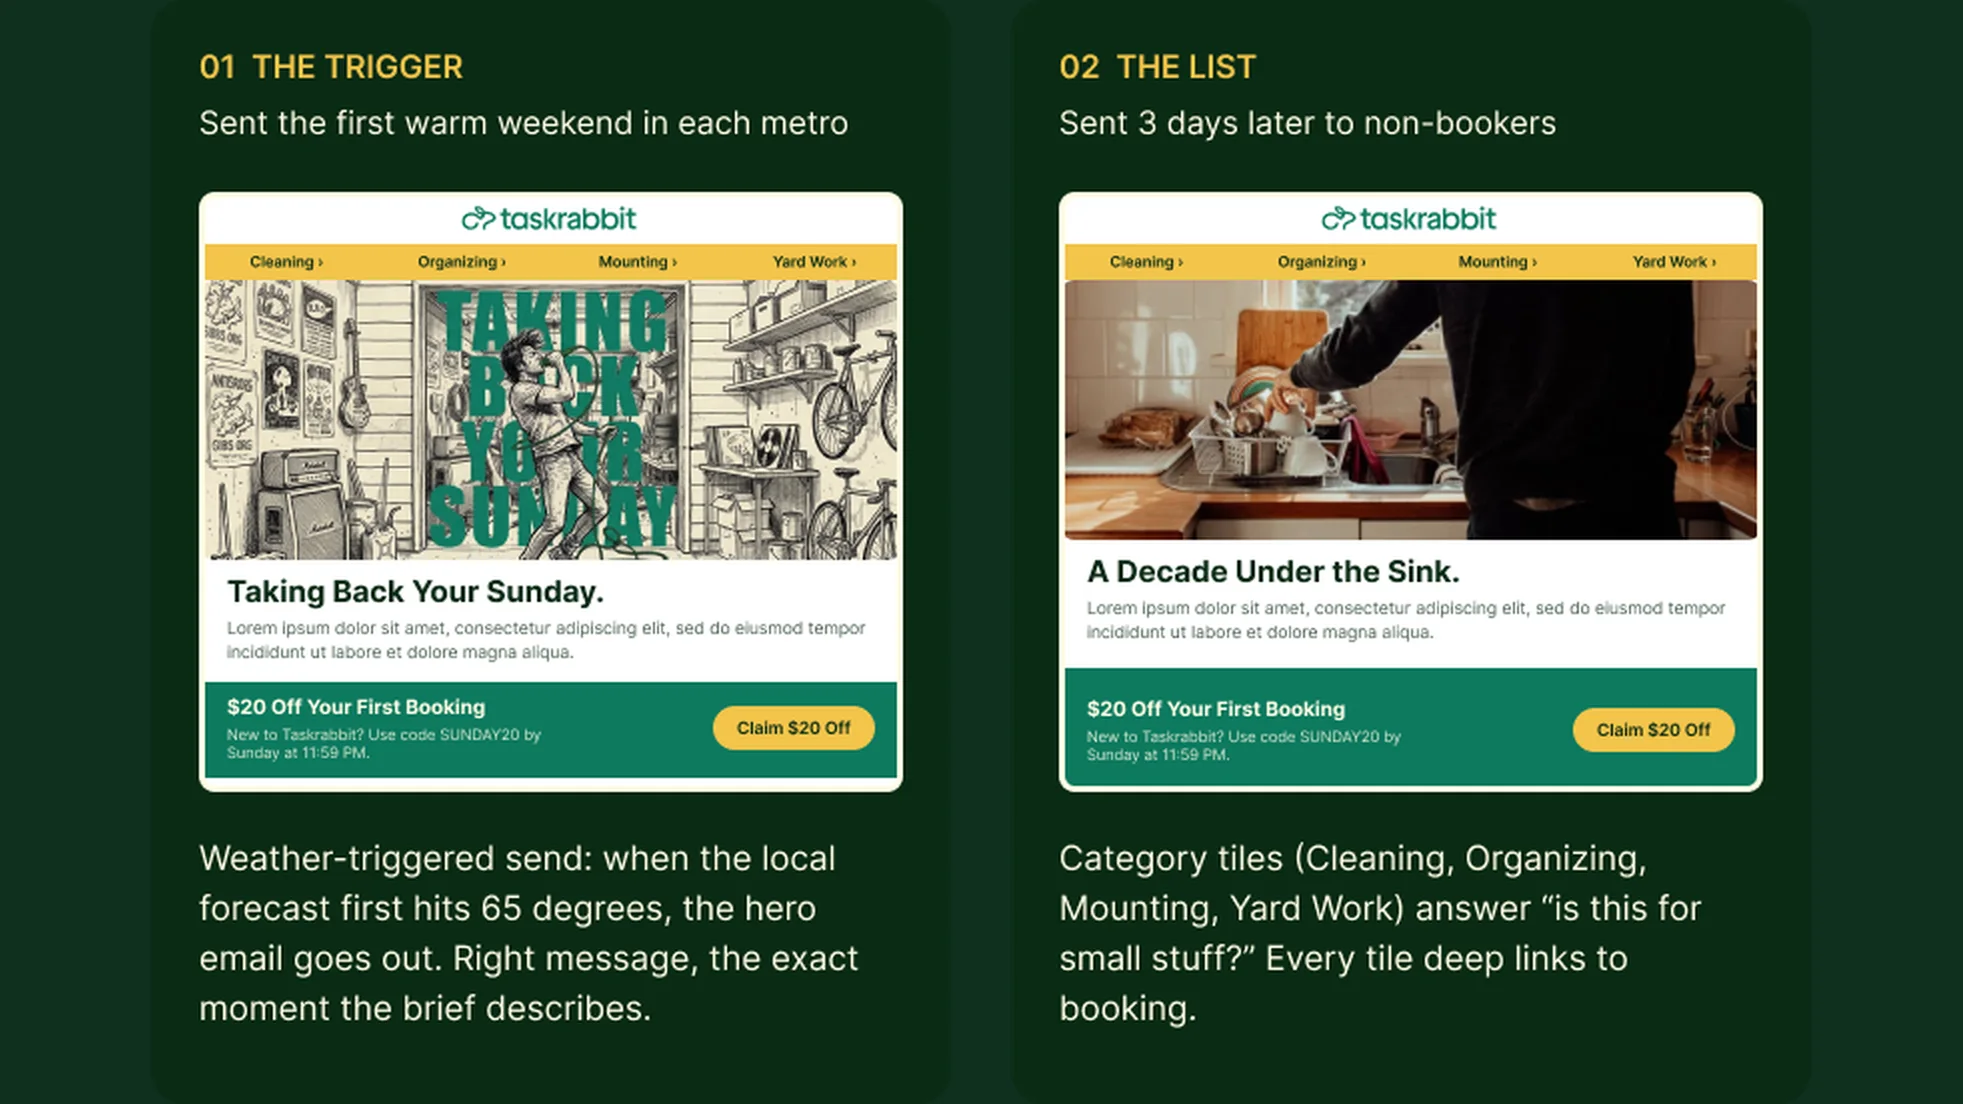
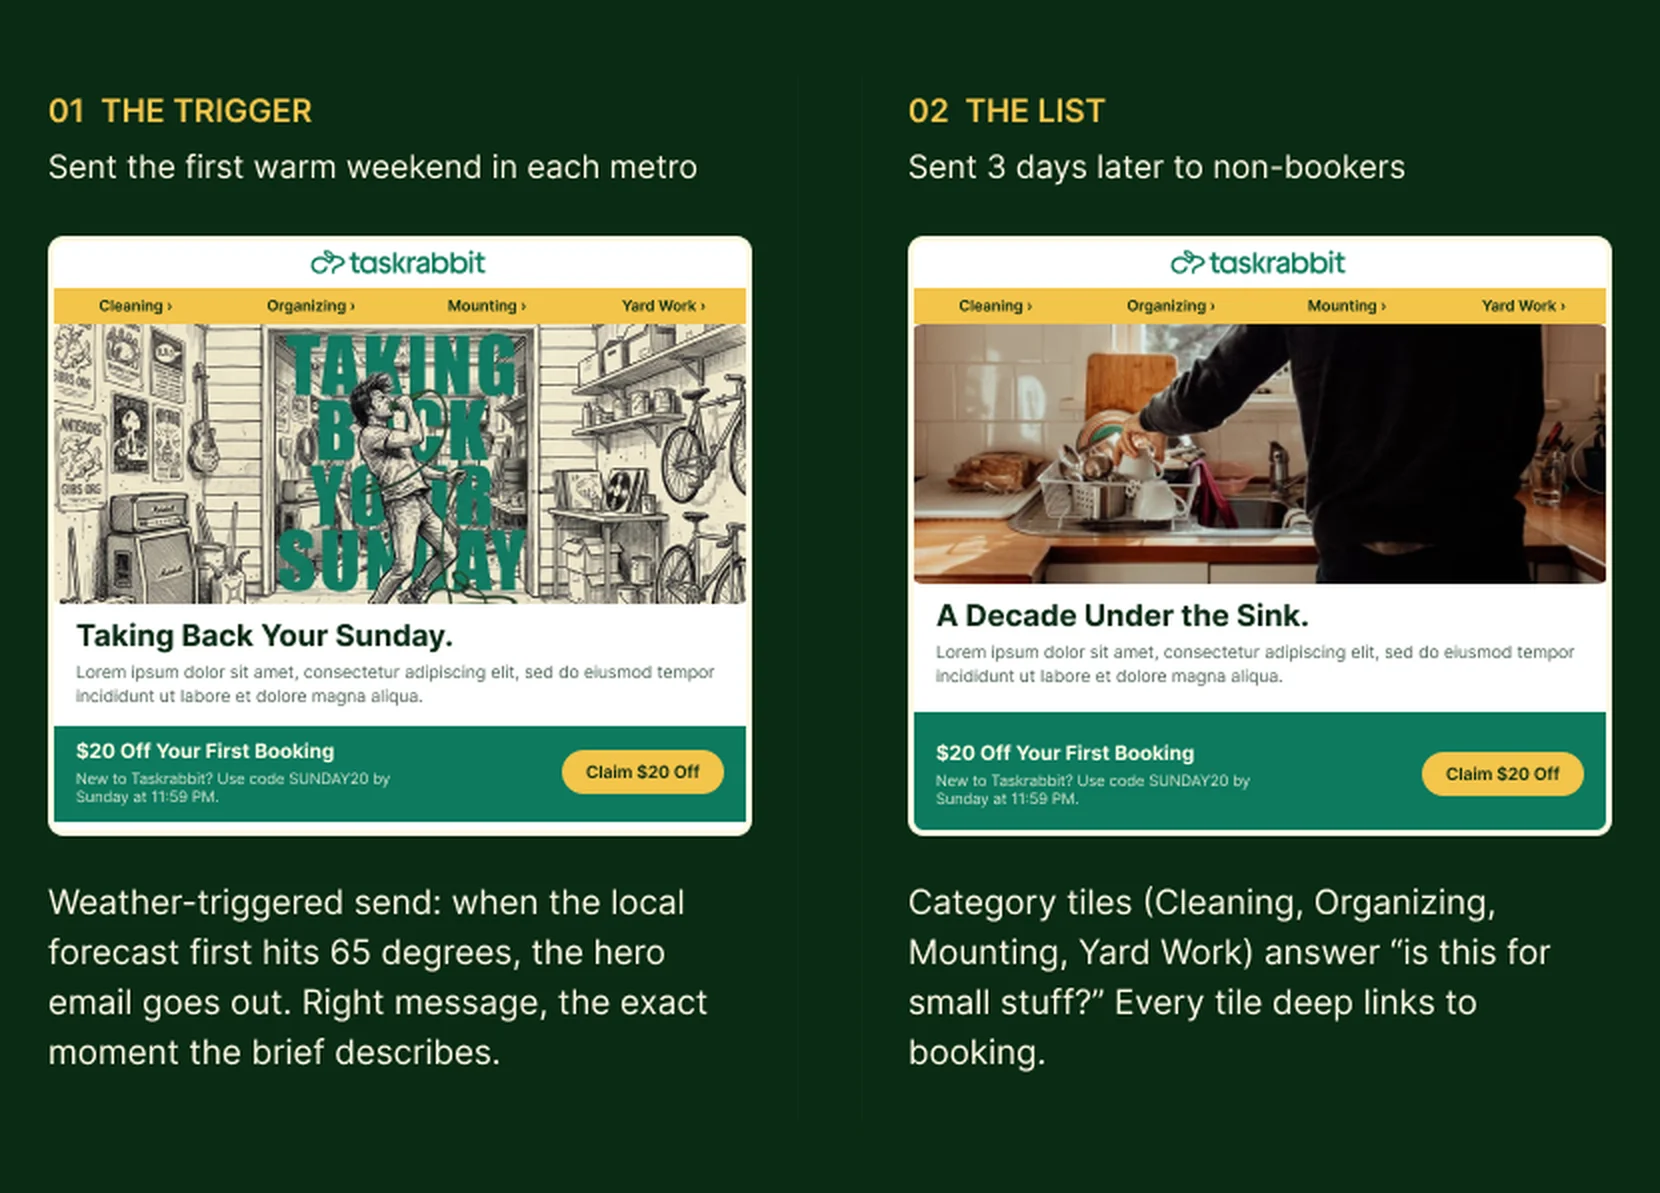
Taking Back Your Sunday: slug taskrabbit-campaign-crm, no galleries, only Beth's own designs (Beth)
Claude-Session: https://claude.ai/code/session_01EoUpkrpu9jkyuFbFLeqjYG

diff --git a/project-pages/taking-back-your-sunday.html b/project-pages/taking-back-your-sunday.html
@@ -1,6 +1,6 @@
 <!-- ============================================================
-  BETH ERIN NEWMAN · PROJECT PAGE: TAKING BACK YOUR SUNDAY, TASKRABBIT SPEC  (v1, 2026-11-25, from Beth's old campaign-crm page, built on the See It Differently template)
-  Paste ALL of this into ONE Embed block (Code Snippet) on the project page /work-new/campaign-crm.
+  BETH ERIN NEWMAN · PROJECT PAGE: TAKING BACK YOUR SUNDAY, TASKRABBIT SPEC  (v2, 2026-11-25, no galleries, Beth's own designs only, from Beth's old campaign-crm page, built on the See It Differently template)
+  Paste ALL of this into ONE Embed block (Code Snippet) on the project page /work-new/taskrabbit-campaign-crm.
   Needs check-menu-sitewide.html in Code Injection > Footer (napkin + check) and tablecloth-background.css in Custom CSS (gingham).
   The napkin, guest check and gingham stay still. Only this project card scrolls up the page, under the napkin.
   Edit only the CONFIG section in the script at the bottom: paste each file link between its quotes.
@@ -47,7 +47,7 @@
     <h2>The brief</h2>
     <p>Taskrabbit wanted more first-time bookings, and the biggest hurdle was people thinking it isn't for small stuff. So I pictured Taking Back Sunday, all grown up, hosting a spring BBQ in a house that isn't ready. A few Taskers later, the band gets their Sunday back. You can too.</p>
   </div>
-  <figure class="sid-m sid-video1"><div class="sid-track"><img data-src="slideCover" alt="Cover slide: Taking Back Your Sunday, a spring reset visual concept, next to the garage sketch"><img data-src="slideEmail" alt="Email full mockup in three beats: the hook, pick your chore, then proof and the $20 first booking offer"><img data-src="slideWhy" alt="Why it works: the insight, the idea, the fit, and song titles by category"></div></figure>
+  <figure class="sid-m sid-video1"><img data-src="slideCover" alt="Cover slide: Taking Back Your Sunday, a spring reset visual concept, next to the garage sketch"></figure>
   <p class="sid-caption">Every chore gets a song title, like A Decade Under the Sink and Cut From the Closet. I focused on email because that's where people actually book, and built it on Taskrabbit's existing template so it could ship tomorrow.</p>
   <div class="sid-gifs">
     <figure class="sid-m"><img data-src="beat1" alt="Email beat one, the hook: Taking Back Your Sunday with $20 off your first booking"></figure>
@@ -58,14 +58,14 @@
     <h2>Credits</h2>
     <p><span>Concept, Art Direction, Copy and Design: Beth&nbsp;Newman<br>A spec concept, not commissioned by or affiliated with Taskrabbit or Taking Back Sunday</span></p>
   </div>
-  <figure class="sid-m sid-stills"><div class="sid-track"><img data-src="slideCrm" alt="The CRM journey: one campaign idea, four moments, from the weather trigger to the encore"><img data-src="crmTrigger" alt="CRM journey steps one and two: the weather trigger email when it first hits 65 degrees, then The List three days later"><img data-src="crmNudge" alt="CRM journey steps three and four: the nudge after an abandoned booking, then the encore thank-you with a referral"></div></figure>
-  <figure class="sid-m sid-app"><img data-src="sketchPhoto" alt="The hero sketch next to a real photo of someone watering plants, showing the illustrated idea and the real photography direction"></figure>
-  <figure class="sid-m sid-video2"><div class="sid-track"><img data-src="slideMood" alt="Mood board of real people mid-task at home, with the Agave, Monstera, Pampas, Coral and Yellow palette"></div></figure>
+  <figure class="sid-m sid-stills"><img data-src="slideCrm" alt="The CRM journey: one campaign idea, four moments, from the weather trigger to the encore"></figure>
+  <figure class="sid-m sid-app"><img data-src="crmTrigger" alt="CRM steps one and two: the weather trigger email when it first hits 65 degrees, then The List three days later"></figure>
+  <figure class="sid-m sid-video2"><img data-src="slideWhy" alt="Why it works: the insight, the idea, the fit, and song titles by category"></figure>
   <div class="sid-cartoons">
-    <figure class="sid-m"><img data-src="sqSink" alt="A Decade Under the Sink, the cleaning card"></figure>
-    <figure class="sid-m"><img data-src="sqCloset" alt="Cut From the Closet, the organizing card"></figure>
-    <figure class="sid-m"><img data-src="sqWall" alt="Where You Want It to Be, the mounting card"></figure>
-    <figure class="sid-m"><img data-src="sqSpring" alt="You're So Last Spring, the yard work card"></figure>
+    <figure class="sid-m"><img data-src="sqSketch" alt="The cover sketch: a singer mid-leap with TAKING BACK YOUR SUNDAY in green behind him"></figure>
+    <figure class="sid-m"><img data-src="sqProof" alt="Email proof section: 3+ hours of Sunday back, a 4.8 star Tasker rating, $20 off, and a neighbor's review"></figure>
+    <figure class="sid-m"><img data-src="sqNudge" alt="The nudge: Your Sunday Is Still Waiting, sent 24 hours after an abandoned booking"></figure>
+    <figure class="sid-m"><img data-src="sqEncore" alt="The encore: Tell All Your Friends, a thank-you with a referral after the first task"></figure>
   </div>
   <div class="sid-frame" aria-hidden="true"></div>
   <div class="sid-deco" aria-hidden="true">
@@ -241,22 +241,17 @@ html.sid-on body > #sid-page{position:absolute; left:0; top:0; z-index:10}
     /* 1. Images: a file name loads from media above. A full link (https://... or /s/...) also works */
     logo: "",   /* leave empty to use the sharp 3x logo built into this code, or paste a link to use another */
     hero: "tbs-garage-hero.webp",
+    slideCover: "tbs-slide-cover.webp",
     beat1: "tbs-email-beat-1.webp",
     beat2: "tbs-email-beat-2.webp",
     beat3: "tbs-email-beat-3.webp",
-    sketchPhoto: "tbs-sketch-and-photo.webp",
-    sqSink: "tbs-sq-sink.webp",
-    sqCloset: "tbs-sq-closet.webp",
-    sqWall: "tbs-sq-wall.webp",
-    sqSpring: "tbs-sq-spring.webp",
-    /* gallery photos (these frames scroll sideways) */
-    slideCover: "tbs-slide-cover.webp",
-    slideEmail: "tbs-slide-email-mockup.webp",
-    slideWhy: "tbs-slide-why-it-works.webp",
     slideCrm: "tbs-slide-crm-journey.webp",
     crmTrigger: "tbs-crm-trigger-and-list.webp",
-    crmNudge: "tbs-crm-nudge-and-encore.webp",
-    slideMood: "tbs-slide-mood-board.webp",
+    slideWhy: "tbs-slide-why-it-works.webp",
+    sqSketch: "tbs-sq-cover-sketch.webp",
+    sqProof: "tbs-sq-proof.webp",
+    sqNudge: "tbs-sq-nudge.webp",
+    sqEncore: "tbs-sq-encore.webp",
     /* 2. Stickers: same links you use on the homepage */
     stickerFavorite: "https://static1.squarespace.com/static/56d886c960b5e9cfa629ff7c/t/6aff5eed9454311243ad05d4/1795120877486/Sticker_3.webp",
     stickerSpecial: "https://static1.squarespace.com/static/56d886c960b5e9cfa629ff7c/t/6aff5f5e12663d02e7bd59a4/1795120990361/Sticker_9.webp",

diff --git a/check-menu-sitewide.html b/check-menu-sitewide.html
@@ -69,7 +69,7 @@ html.ben-menu-on #siteWrapper{margin-left:calc(max(300px, 33.333vw) + 8px); padd
     homePath: "/home-new",          /* launch day: "/" */
     workPath: "/work-new",          /* launch day: "/work" */
     /* Each project page's check line (its URL slug: the line it belongs to). Current page's line shows blue and underlined. */
-    cats: {"britbox-brand-campaign":"Campaign", "britbox-visual-identity":"Brand", "britbox-out-of-home":"Campaign", "milkbar-treat-tour":"Experiential", "britbox-atx-tv-festival":"Experiential", "retail-environmental-design":"Spatial", "experiential-event-identity":"Experiential", "product-packaging-print":"Packaging", "campaign-crm":"Campaign", "the-99-store":"Campaign", "milkbar-crm-digital":"Campaign"},
+    cats: {"britbox-brand-campaign":"Campaign", "britbox-visual-identity":"Brand", "britbox-out-of-home":"Campaign", "milkbar-treat-tour":"Experiential", "britbox-atx-tv-festival":"Experiential", "retail-environmental-design":"Spatial", "experiential-event-identity":"Experiential", "product-packaging-print":"Packaging", "taskrabbit-campaign-crm":"Campaign", "the-99-store":"Campaign", "milkbar-crm-digital":"Campaign"},
     /* 1. Upload these two images and paste their Squarespace URLs (napkin + check in one picture, no handwriting) */
     menuImage: "https://static1.squarespace.com/static/56d886c960b5e9cfa629ff7c/t/6afe4101e4e0987a54a4f7e4/1795047681492/ben-menu-desktop.webp",       /* ben-menu-desktop.webp */
     menuImageMobile: "https://static1.squarespace.com/static/56d886c960b5e9cfa629ff7c/t/6afe414afaa336537fa03568/1795047754969/ben-menu-phone.webp",   /* ben-menu-phone.webp */

diff --git a/home-guest-check.html b/home-guest-check.html
@@ -168,7 +168,7 @@ body:has(#ben-home.ben-live) #header, body:has(#ben-home.ben-live) .header-annou
        img:"https://betherinn-blip.github.io/portfolio-redesign/assets/projects/bureau-of-commitment/boc-home-thumb.webp", x:74, y:54, w:31, r:-3},
       {title:"Branded Print Materials", line:"Milk Bar Print", client:"Milk Bar", cat:"Packaging", code:"PKG", url:"/work-new/product-packaging-print",
        img:"https://betherinn-blip.github.io/portfolio-redesign/assets/projects/milk-bar-packaging/mbp-home-thumb.webp", x:1, y:64, w:36, r:3},
-      {title:"Taking Back Your Sunday", line:"Take Back Sunday", client:"Taskrabbit (spec)", cat:"Campaign", code:"CAMP", url:"/work-new/campaign-crm",
+      {title:"Taking Back Your Sunday", line:"Take Back Sunday", client:"Taskrabbit (spec)", cat:"Campaign", code:"CAMP", url:"/work-new/taskrabbit-campaign-crm",
        img:"https://betherinn-blip.github.io/portfolio-redesign/assets/projects/taking-back-your-sunday/tbs-home-thumb.webp", x:27, y:60, w:25, r:-5},
       {title:"The 99 Store 360 Campaigns", line:"99 Store Campaigns", client:"The 99 Store", cat:"Campaign", code:"OOH", url:"/work-new/the-99-store",
        img:"https://betherinn-blip.github.io/portfolio-redesign/assets/projects/the-99-store/n99-home-thumb.webp", x:51, y:66, w:36, r:6},

diff --git a/project-pages/README.md b/project-pages/README.md
@@ -100,7 +100,7 @@ Photos are in `assets/projects/bureau-of-commitment/`, taken from Beth's updated
 Photos and videos are in `assets/projects/milk-bar-crm/`, from Beth's MilkBar folder (Gifs and "Milk Bar images from Urs") and her current site. None of the videos have sound, so they all loop like GIFs: the Valentine's ad (big photo), the two holiday ads, three Instagram stories, the Mother's Day pair and four emails in the squares. The one side-scrolling gallery is the Boston opening teasers and stories. Credits: Beth did the design and animation; photography by Sarah E Crowder and Megan Madden (Beth).
 ## Build the Taking Back Your Sunday page (Taskrabbit spec)
 
-1. In Work New, add the Taking Back Your Sunday project page. Set its URL slug to `campaign-crm` (page settings, URL Slug), the same slug as the old site, so the address is `/work-new/campaign-crm`. The homepage print links there.
+1. In Work New, add the Taking Back Your Sunday project page. Set its URL slug to `taskrabbit-campaign-crm` (page settings, URL Slug), so the address is `/work-new/taskrabbit-campaign-crm`. The homepage print and the check menu link there.
 2. Paste `taking-back-your-sunday.html` into its one Embed block.
 
-Images are in `assets/projects/taking-back-your-sunday/` (media `tbs-*`), taken from Beth's old campaign-crm page. Three frames are side-scrolling galleries: the cover, email mockup and Why it works slides, the CRM journey (overview, trigger and list, nudge and encore), and the mood board. The three tall frames are the email's three beats. The four squares are the song-title category cards, rebuilt from the full-size photos in Beth's TaskRabbit Case Study folder. The homepage print uses tbs-home-thumb.webp (the tall cover sketch).
+Images are in `assets/projects/taking-back-your-sunday/` (media `tbs-*`), from Beth's old campaign-crm page and her TaskRabbit Case Study folder. Beth asked for no galleries on this page (less imagery) and no stock-photo-only frames, so every frame holds one of her own designs: the garage sketch, the cover slide, the three email beats, the CRM journey slide, the trigger and list emails, the Why it works slide, and four squares (cover sketch, the email's proof section, the nudge and the encore). The homepage print uses tbs-home-thumb.webp (the tall cover sketch).
